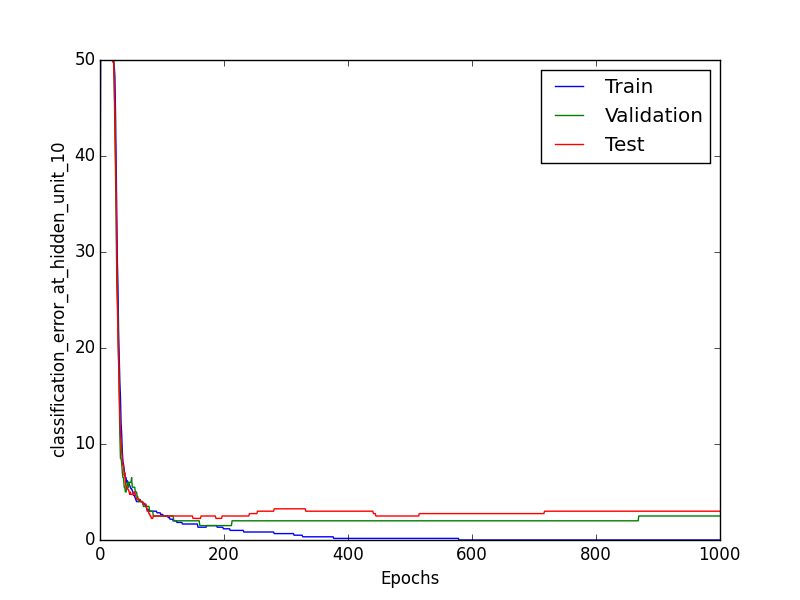
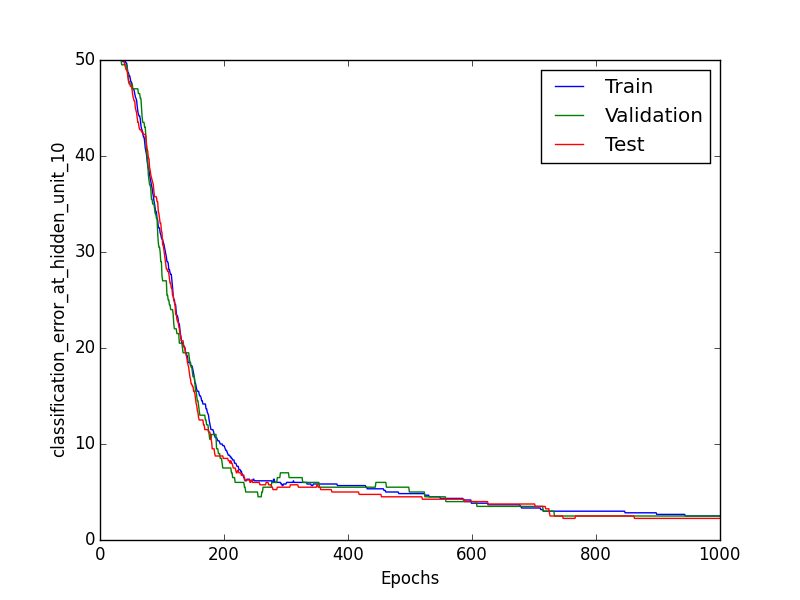
Fix typo in 2.2-2.4, add timer in knn.py

Changed region(s): [[0.125, 0.09, 0.9062, 0.9]]

diff --git a/NN/python/nn.py b/NN/python/nn.py
@@ -157,7 +157,7 @@ def main():
   momentum = 0.0
   num_epochs = 1000
 
-  current_problem = [2.1, 2.2, 2.3, 2.4]
+  current_problem = [2.4]
   print "Running problems: ", current_problem
 
   # 2.1 and 2.2
@@ -168,7 +168,7 @@ def main():
 
   # 2.3
   if 2.3 in current_problem:
-      for eps in [0.5, 0.2, 0.1]:
+      for eps in [0.5, 0.2, 0.01]:
           W1, W2, b1, b2, train_error, valid_error, train_class_error, valid_class_error = TrainNN(num_hiddens, eps, momentum, num_epochs)
           # iterate through different eps
           suffix = '_at_eps_' + str(eps)
@@ -176,6 +176,7 @@ def main():
           DisplayErrorPlot(train_error, valid_error, mode='cross_entropy' + suffix)
           DisplayErrorPlot(train_class_error, valid_class_error, mode='classification_error' + suffix) 
 
+      eps = 0.1
       for momentum in [0.9, 0.5, 0.0]:
           W1, W2, b1, b2, train_error, valid_error, train_class_error, valid_class_error = TrainNN(num_hiddens, eps, momentum, num_epochs)
           # iterate through different momentum
@@ -186,7 +187,7 @@ def main():
 
   # 2.4
   if 2.4 in current_problem:
-      eps = 0.2
+      eps = 0.02
       momentum = 0.5
       for num_hiddens in [2, 5, 10, 30, 100]:
           start = time.time()

diff --git a/NN/python/knn.py b/NN/python/knn.py
@@ -1,5 +1,6 @@
 from util import *
 from run_knn import run_knn
+import time
 
 def get_perc(test, target):
     total = 0
@@ -24,15 +25,19 @@ def main():
     
     print "VALIDATION"
     for i in [1, 3, 5, 7, 9]:
+        start = time.time()
         labels = run_knn(i, train_data.T, train_labels, valid_data.T)
+        print "Took: ", time.time() - start
         #plot_digits(test)
-        print "K = ", i, " perc = ", get_perc(labels, valid_labels.T)
+        print "K = ", i, " perc = ", 100 - get_perc(labels, valid_labels.T)
 
     print "TEST"
     for i in [1, 3, 5, 7, 9]:
+        start = time.time()
         labels = run_knn(i, train_data.T, train_labels, test_data.T)
+        print "Took: ", time.time() - start
         #plot_digits(test)
-        print "K = ", i, " perc = ", get_perc(labels, test_labels.T)
+        print "K = ", i, " perc = ", 100 - get_perc(labels, test_labels.T)
 
 
 if __name__ == '__main__':
